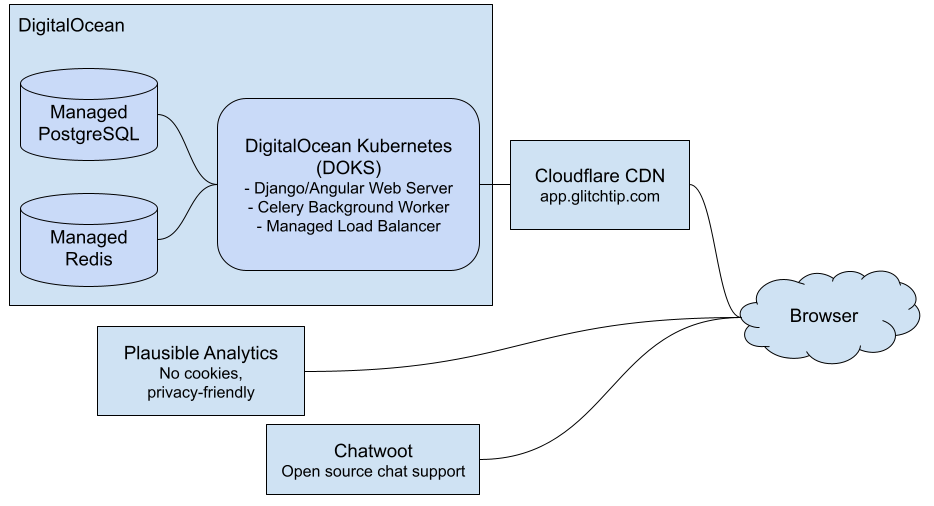
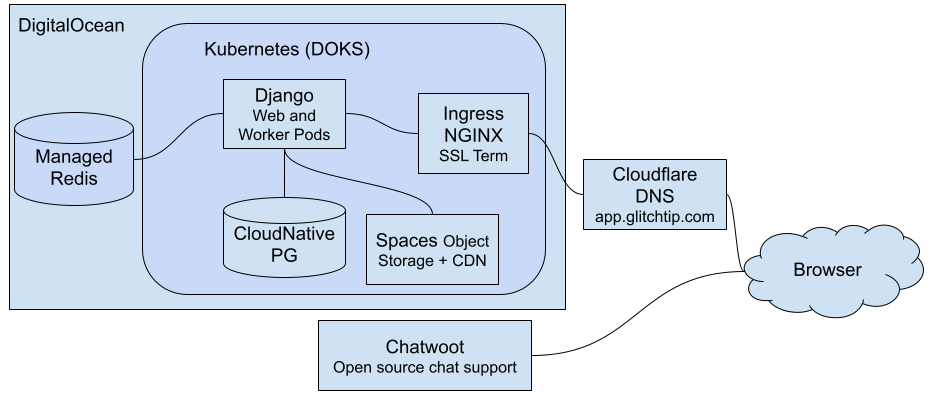
Update hosted architecture docs

diff --git a/projects/marketing/public/documentation/hosted-architecture.md b/projects/marketing/public/documentation/hosted-architecture.md
@@ -8,7 +8,6 @@ Burke Software functions as a data processor. We do not sell or share user data 
 
 - Hosting (US): DigitalOcean NYC1 (New York, USA) - https://app.glitchtip.com
 - Hosting (EU): DigitalOcean FRA1 (Frankfurt, Germany) - https://eu.glitchtip.com
-- CDN: Cloudflare
 - Transactional Email: Mailgun (Data residency matches the server region: US or EU)
 - Analytics: Plausible (Privacy-focused, GDPR compliant, no cookies) runs solely on this marketing website https://glitchtip.com and not on our GlitchTip hosted servers (ex: https://app.glitchtip.com)
 - Payments: Stripe (PCI-DSS Service Provider Level 1)
@@ -19,11 +18,11 @@ Burke Software functions as a data processor. We do not sell or share user data 
 
 ### Data Isolation and Encryption
 
-- Storage: User data is stored in managed DigitalOcean PostgreSQL clusters.
+- Storage: User data is stored in managed Kubernetes (DOKS) PostgreSQL cluster, using CloudNativePG.
 - Network Isolation: The database cluster is isolated within a Private VPC (Virtual Private Cloud) and is accessible strictly via the Kubernetes cluster’s "Trusted Source" allowlist. It is not accessible via the public internet.
 - Encryption:
   - In Transit: All data transmission requires TLS 1.2+ (HTTPS).
-  - At Rest: DigitalOcean Managed Storage provides encryption at rest.
+  - At Rest: DigitalOcean Volumes Block Storage provides encryption at rest.
 - Secrets Management: Application credentials and keys are managed via Kubernetes Secrets and are never committed to version control.
 
 ### Access Controls